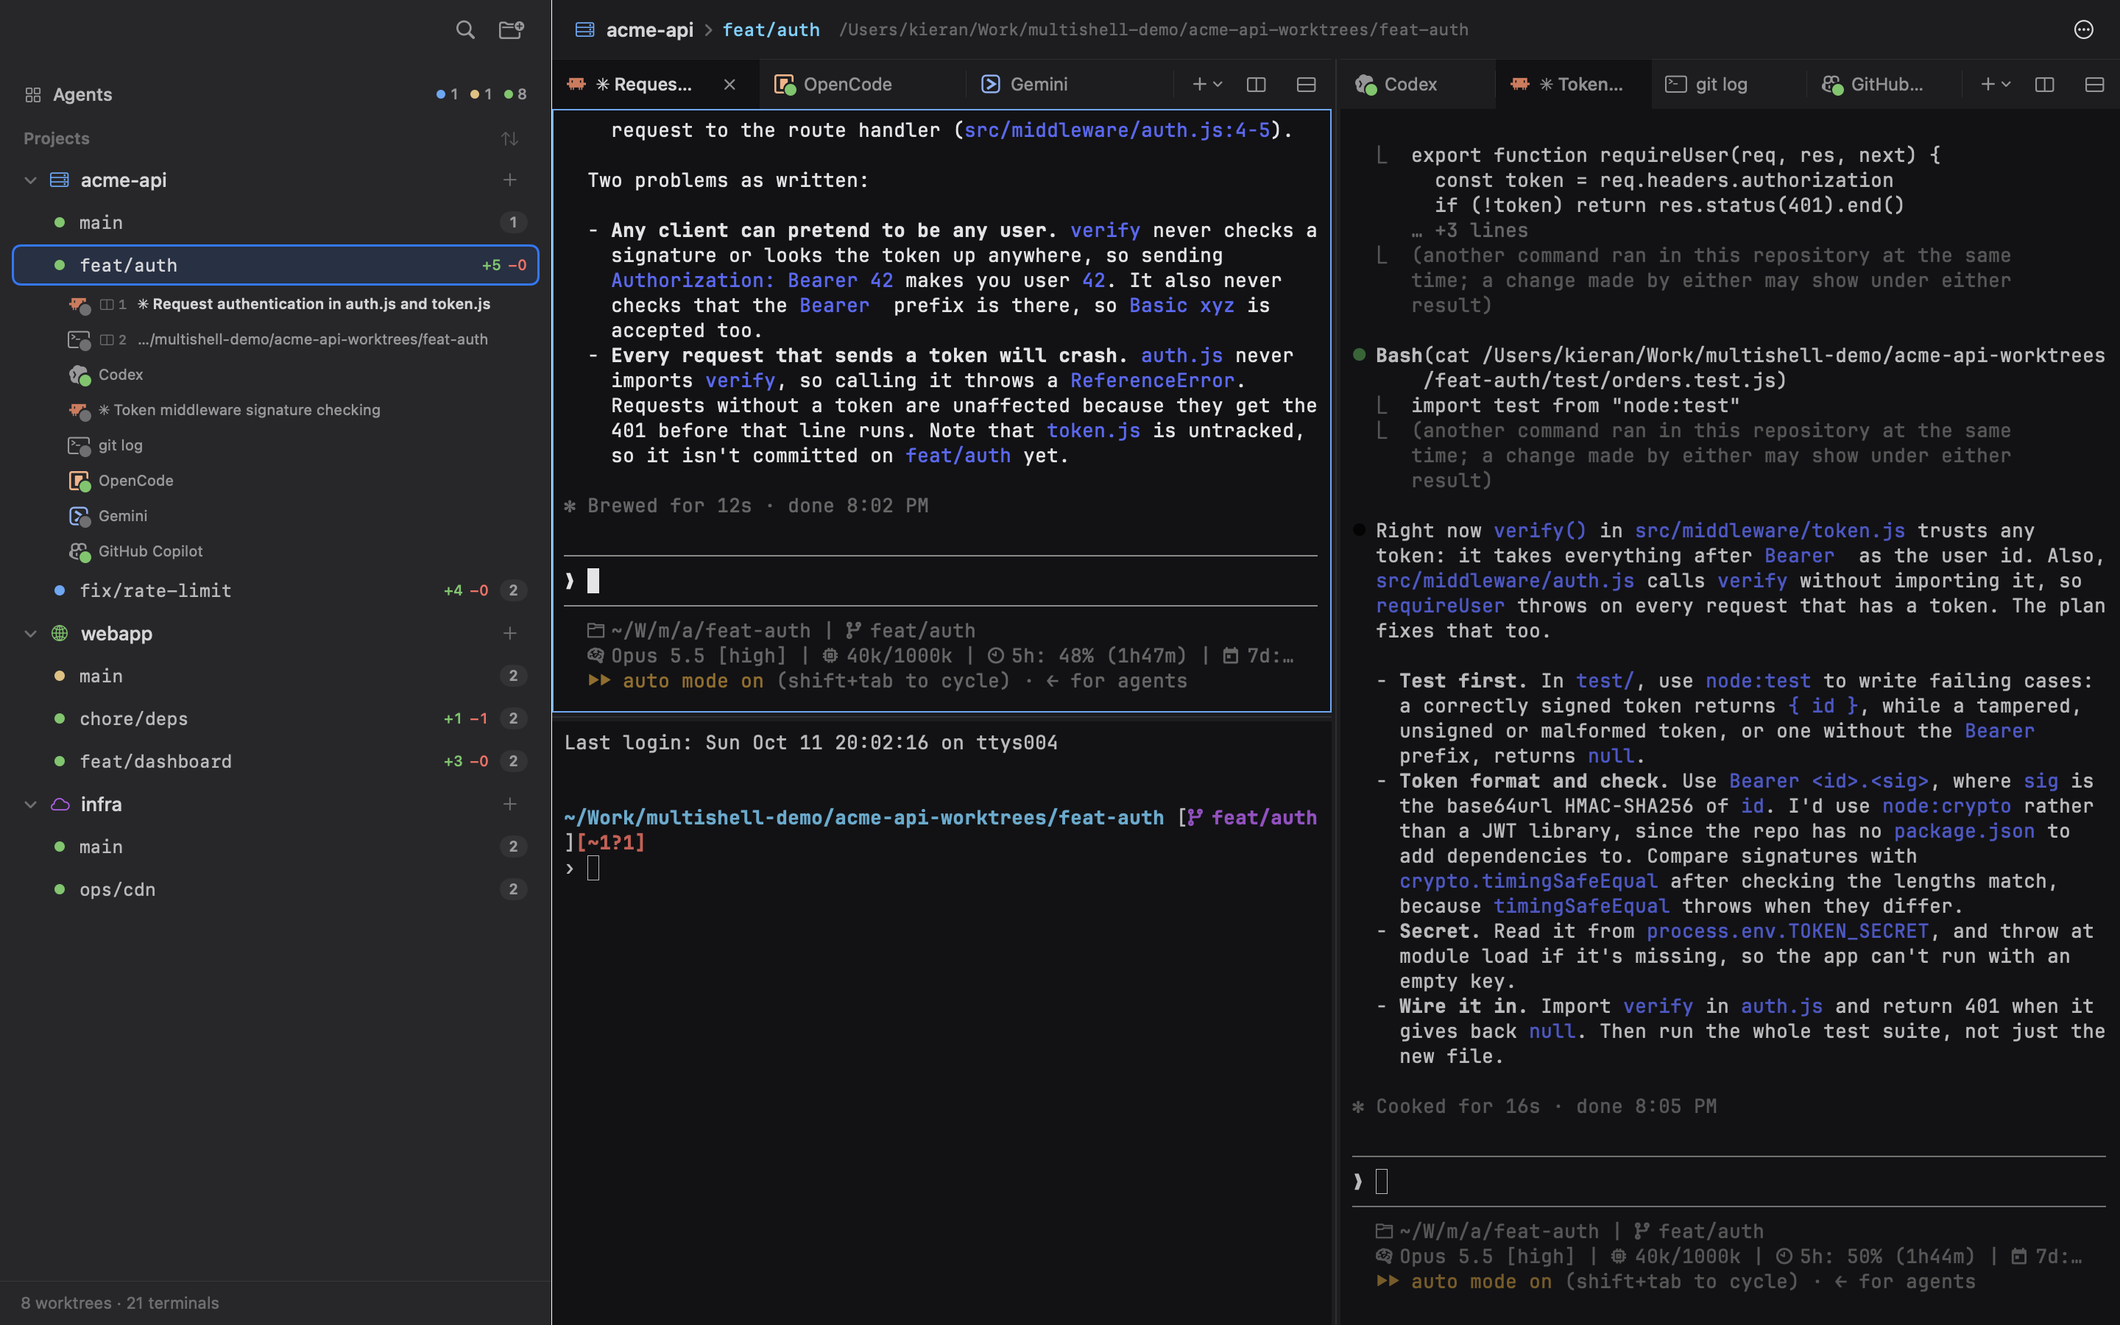
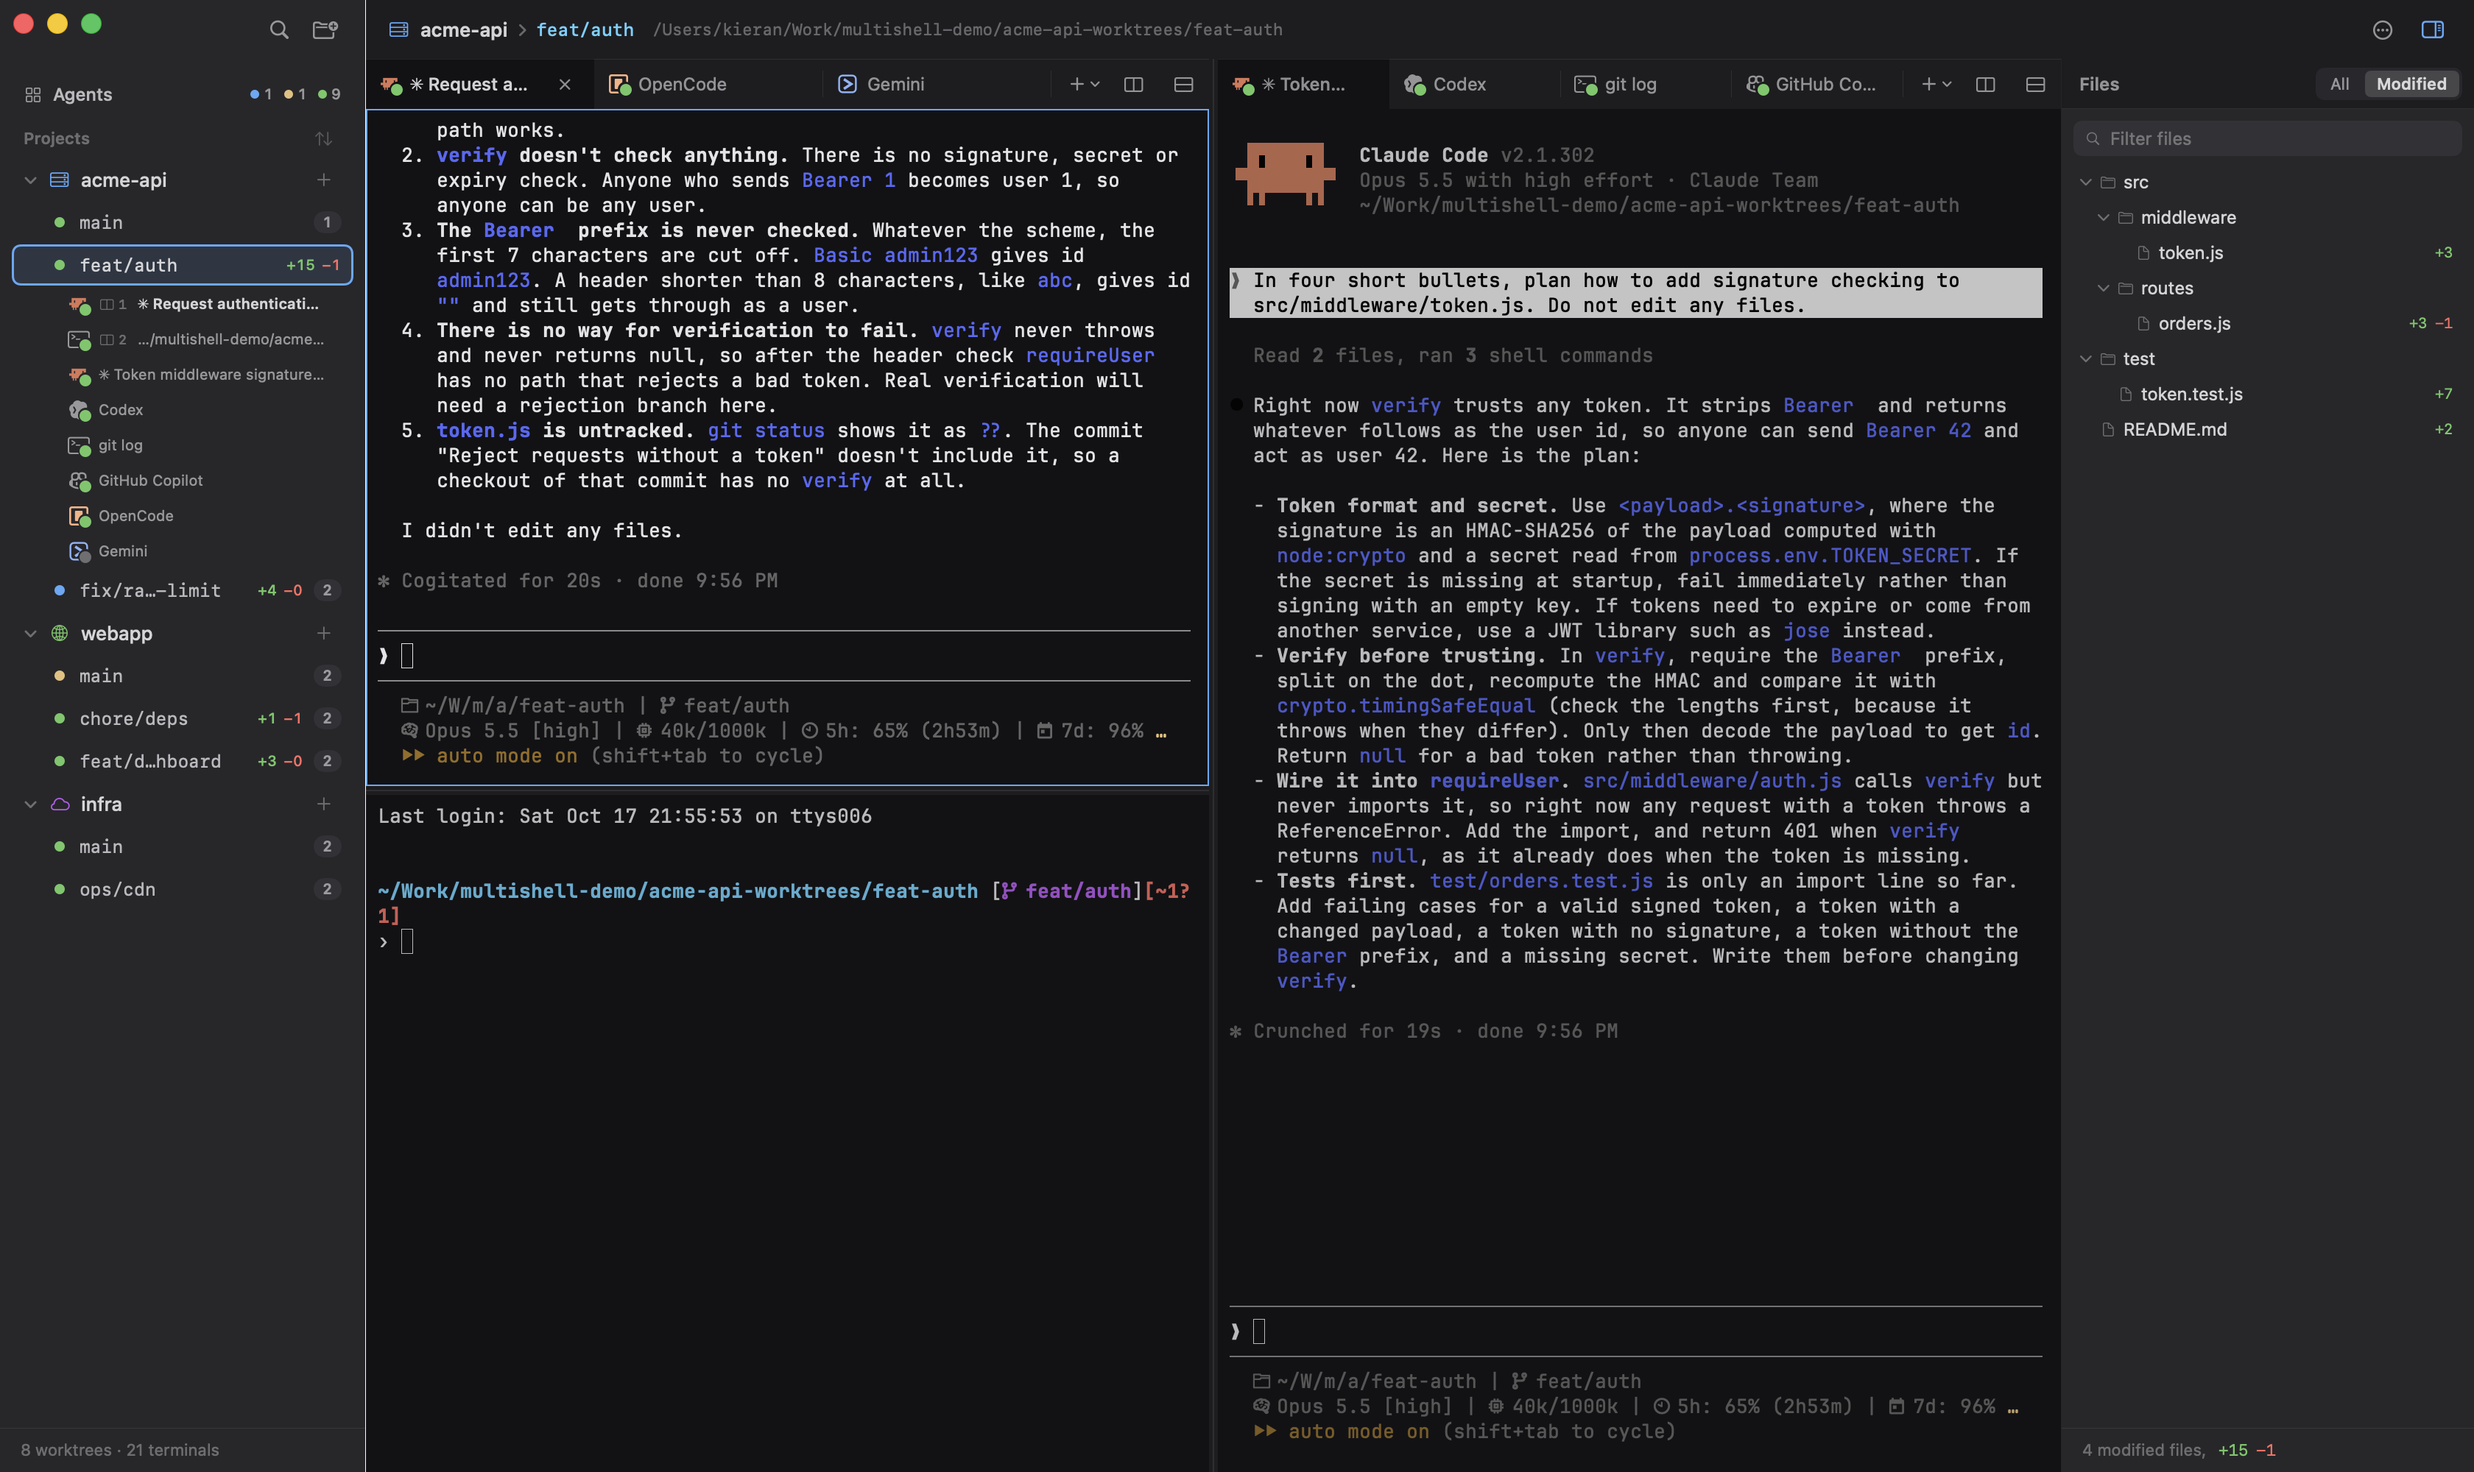
Retake the README screenshots with the Files panel and new light theme
The old shots predate the Files panel and the reworked light theme.
They come from the app's own window capture, which draws no window
chrome, so the traffic lights are composited on afterwards at the size
and position measured from a real capture.

diff --git a/README.md b/README.md
@@ -14,7 +14,7 @@
 </p>
 
 <p align="center">
-  <img src="Docs/screenshot-light.png" width="48%" alt="Multishell in light mode: projects with their own icons and worktrees in the sidebar, and two groups of tabs side by side, Claude Code split above a shell on the left and a second Claude Code on the right">
+  <img src="Docs/screenshot-light.png" width="48%" alt="Multishell in light mode: projects with their own icons and worktrees in the sidebar, and two groups of tabs side by side, Claude Code split above a shell on the left, a second Claude Code on the right, and the Files panel listing the worktree's changes">
   &nbsp;&nbsp;
   <img src="Docs/screenshot-dark.png" width="48%" alt="The same workspace in dark mode">
 </p>
